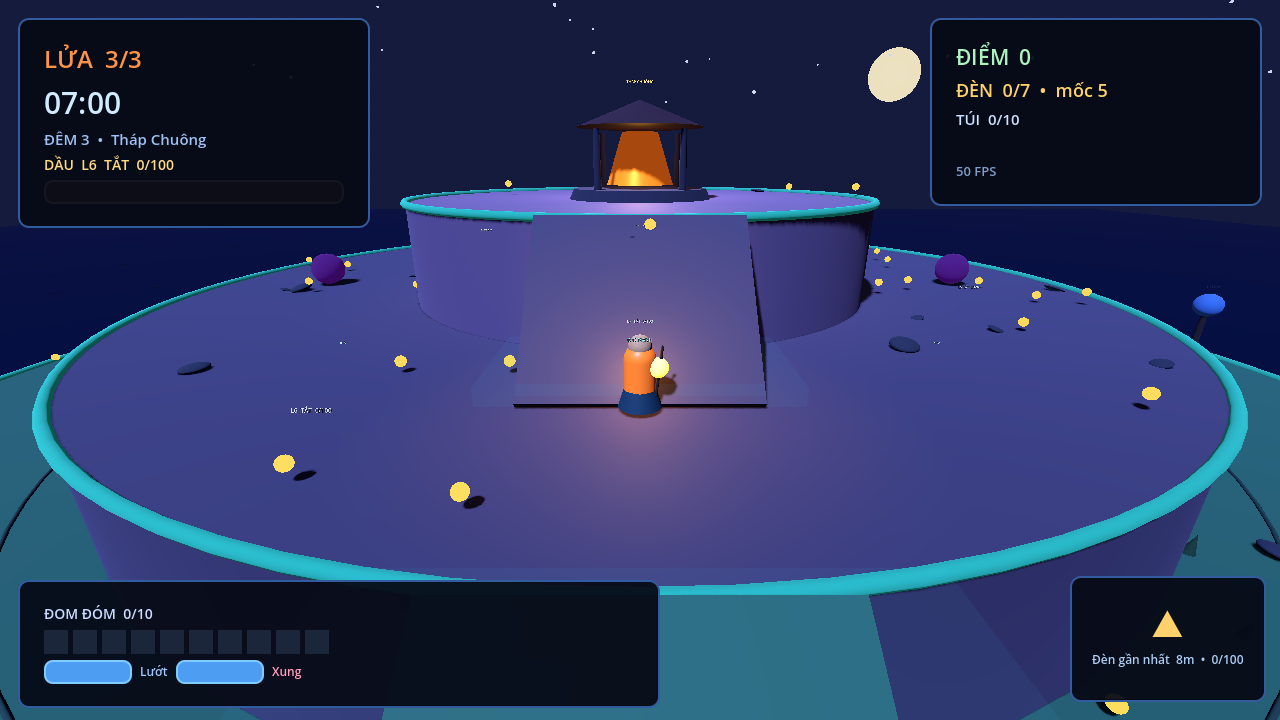
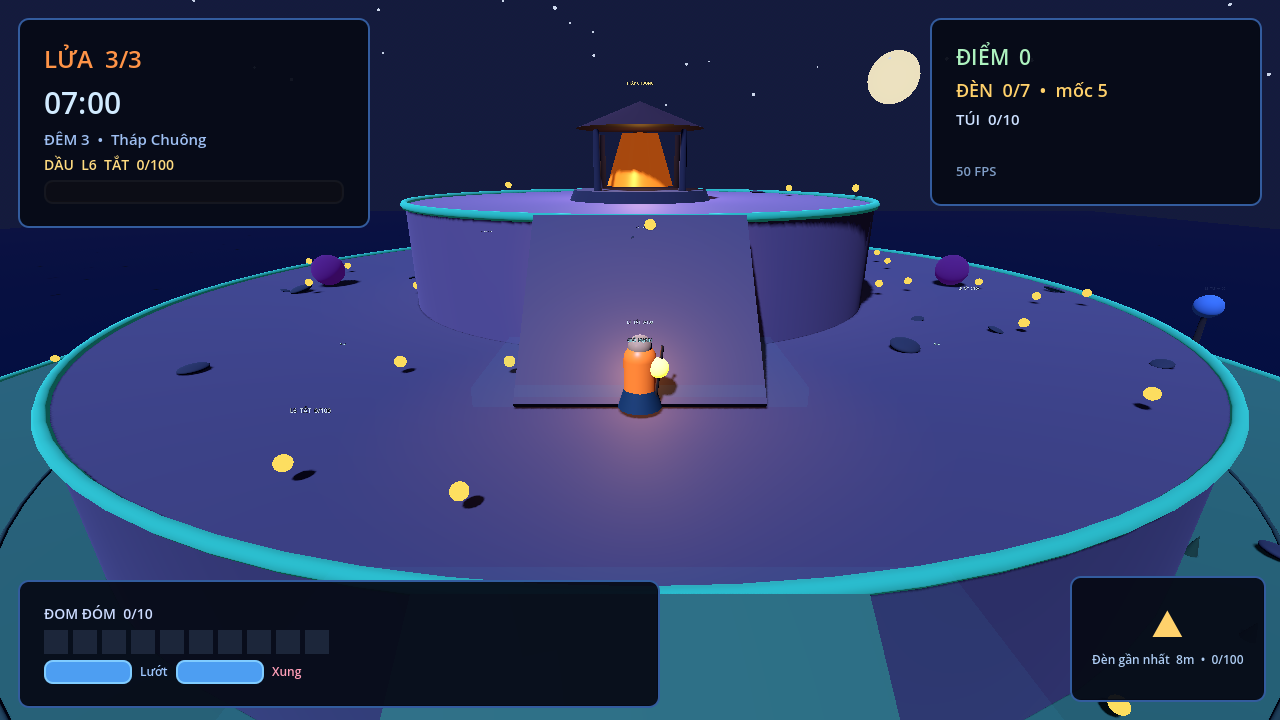
phase 3: balance player speed and shade chase after playtest

diff --git a/tools/verify_phase3.py b/tools/verify_phase3.py
@@ -114,7 +114,7 @@ def main():
 
         # Ambient drain is 1/s: a fuel-1 lantern goes out exactly on tick 60,
         # emitting lantern_out once and keeping ever_lit.
-        sc = empty() | {"player": {"pos": [10, 0, 0]}, "time_left_s": 300,
+        sc = empty() | {"player": {"pos": [30, 0, 0]}, "time_left_s": 300,
                         "lanterns": [{"id": "L1", "pos": [0, 0, 0], "lit": True, "fuel": 1}]}
         proc, rows = run(tmp, "deplete-ambient", 1, sc, None, 61)
         out = events(rows, "lantern_out")
@@ -126,7 +126,7 @@ def main():
 
         # A shade within 2 m adds 5/s, so ambient + shade (6/s) drains fuel 1
         # in 10 ticks. The shade is in the drain state and stops when out.
-        sc = empty() | {"player": {"pos": [10, 0, 0]}, "time_left_s": 300,
+        sc = empty() | {"player": {"pos": [30, 0, 0]}, "time_left_s": 300,
                         "lanterns": [{"id": "L1", "pos": [0, 0, 0], "lit": True, "fuel": 1}],
                         "shades": [{"id": "S1", "pos": [2, 0, 0]}]}
         proc, rows = run(tmp, "deplete-shade", 1, sc, None, 12)
@@ -138,13 +138,21 @@ def main():
 
         # Drain rate check: below the safe threshold a shade within 2 m adds
         # 5/s. 10 ticks of 6/s = 60 drain units, i.e. one fuel.
-        sc = empty() | {"player": {"pos": [10, 0, 0]}, "time_left_s": 300,
+        sc = empty() | {"player": {"pos": [30, 0, 0]}, "time_left_s": 300,
                         "lanterns": [{"id": "L1", "pos": [0, 0, 0], "lit": True, "fuel": 20}],
                         "shades": [{"id": "S1", "pos": [2, 0, 0]}]}
         proc, rows = run(tmp, "drain-rate", 1, sc, None, 10)
         assert proc.returncode == 0 and lantern(rows, 10, "L1")["fuel"] == 19
         assert snap(rows, 10)["shades"][0]["state"] == "drain"
         passed.append("shade drain removes one fuel per 10 ticks below fuel 30")
+
+        # The chase radius was raised to 10 m after playtest feedback, so a
+        # shade 8 m from the player should already be chasing.
+        sc = empty() | {"player": {"pos": [8, 0, 0]}, "time_left_s": 300,
+                        "shades": [{"id": "S1", "pos": [0, 0, 0]}]}
+        proc, rows = run(tmp, "chase-radius", 1, sc, None, 1)
+        assert proc.returncode == 0 and snap(rows, 1)["shades"][0]["state"] == "chase"
+        passed.append("shade chases the player from 10 m")
 
         # Relighting an ever-lit lantern costs 5 motes, sets fuel 100, counts
         # relit_count, increments successful_lights and grants 50 points.
@@ -242,7 +250,7 @@ def main():
         assert proc3.returncode == 2 and "error:" in proc3.stderr
         passed.append("colorblind mode is persisted/echoed and validated")
 
-        sc = empty() | {"player": {"pos": [10, 0, 0]}, "time_left_s": 300,
+        sc = empty() | {"player": {"pos": [30, 0, 0]}, "time_left_s": 300,
                         "lanterns": [{"id": "L1", "lit": True}, {"id": "L2", "lit": True, "fuel": 50}],
                         "shades": [{"id": "S1", "pos": [2, 0, 0]}]}
         a_proc, _ = run(tmp, "det-a", 1, sc, None, 120, seed=909, snapshot_every=10)

diff --git a/game.py b/game.py
@@ -13,12 +13,12 @@ from pathlib import Path
 HZ = 60
 ROOT = Path(__file__).resolve().parent
 T = {
-    "player_speed": 5.0, "carry_capacity": 10,
+    "player_speed": 6.5, "carry_capacity": 10,
     "capacity_per_light": 2, "capacity_max": 20,
     "new_light_cost": 10, "relight_cost": 5,
     "lantern_fuel_max": 100, "refuel_fuel_per_mote": 10,
     "ambient_drain_per_s": 1, "shade_drain_per_s": 5,
-    "shade_drain_radius_m": 2.0, "shade_chase_radius_m": 6.0,
+    "shade_drain_radius_m": 2.0, "shade_chase_radius_m": 10.0,
     "safe_fuel_threshold": 30,
     "dawn_lantern_ratio": 0.6,
     "fuel_push_radius_m": 7.0, "fuel_push_m": 2.0,

diff --git a/tools/capture_phase3_evidence.py b/tools/capture_phase3_evidence.py
@@ -69,7 +69,7 @@ def main():
                                "lanterns": [{"id": "L1", "pos": [0, 0, 0], "lit": True, "fuel": 1}],
                                "shades": []},
                       None, 61),
-        "drain": (empty | {"player": {"pos": [10, 0, 0]}, "time_left_s": 300,
+        "drain": (empty | {"player": {"pos": [30, 0, 0]}, "time_left_s": 300,
                            "lanterns": [{"id": "L1", "pos": [0, 0, 0], "lit": True, "fuel": 20}],
                            "shades": [{"id": "S1", "pos": [2, 0, 0]}]},
                   None, 30),

diff --git a/docs/notes/phase-3-assumptions.md b/docs/notes/phase-3-assumptions.md
@@ -31,7 +31,7 @@ Giữ các giá trị Phase 1/2 trừ các mục dưới đây:
 | `ambient_drain_per_s` | 1 | Hao dầu nền mỗi giây |
 | `shade_drain_per_s` | 5 | Hao thêm mỗi shade trong bán kính |
 | `shade_drain_radius_m` | 2.0 | Bán kính shade drain |
-| `shade_chase_radius_m` | 6.0 | Bán kính chase |
+| `shade_chase_radius_m` | 10.0 | Bán kính chase sau cân bằng playtest |
 | `safe_fuel_threshold` | 30 | Dưới ngưỡng này mất vùng an toàn |
 | `dawn_lantern_ratio` | 0.6 | Tỷ lệ đèn sáng cần để thắng |
 | `fuel_push_radius_m` | 7.0 | Bán kính đẩy shade khi nạp vượt ngưỡng |
@@ -120,3 +120,10 @@ Các giá trị `per_relight`, `per_flame_left`, `dawn_bonus`, `fuel_push_radius
   gây stun.
 - Capacity tăng cho cả thắp mới và thắp lại.
 - `deposited` tiếp tục là alias của `fuel`.
+
+## 11. Cân bằng sau playtest
+
+- `player_speed` tăng `5.0` → `6.5` m/s để người chơi kịp tới đèn trước khi dầu cạn.
+- `shade_chase_radius_m` tăng `6.0` → `10.0` m để shade phản ứng sớm hơn thay vì chỉ đuổi
+  khi người chơi áp sát; shade vẫn ưu tiên `wander` trong vùng an toàn.
+- Giữ nguyên drain `1/s` + `5/s` và ngưỡng an toàn `30` để không phá các test Phase 3.

diff --git a/docs/notes/phase-3-adr.md b/docs/notes/phase-3-adr.md
@@ -54,7 +54,7 @@ Hao dầu:
 - Vùng an toàn: đèn sáng có `fuel >= 30` tạo bán kính an toàn `3 m`. Đúng `30`
   vẫn an toàn; `< 30` mất vùng an toàn.
 - Vùng an toàn (đèn sáng `fuel >= 30`) luôn đẩy shade sang `wander`; nếu không trong vùng an
-  toàn: người chơi trong `<= 6 m` → `chase`; nếu không, trong `<= 2 m` của
+  toàn: người chơi trong `<= 10 m` → `chase`; nếu không, trong `<= 2 m` của
   đèn sáng → `drain`; nếu không → `wander`.
 - `wander`: đi tới đèn sáng có `fuel` thấp nhất; hòa chọn đèn gần Bóng Mực hơn;
   hòa nữa chọn `id` nhỏ hơn. Không còn đèn sáng thì đứng yên.
@@ -116,3 +116,10 @@ Hao dầu:
   mâu thuẫn. Bỏ khỏi điều kiện thắng, giữ địa hình.
 - **Dùng số thực cho fuel:** dễ trôi giữa các lần chạy. Chọn tích lũy nguyên
   1/60.
+
+## 4. Cân bằng sau playtest
+
+- Người chơi báo tốc độ di chuyển hơi thấp và shade chỉ đuổi khi áp sát.
+- Tăng `player_speed` từ `5.0` lên `6.5` m/s.
+- Tăng `shade_chase_radius_m` từ `6.0` lên `10.0` m để shade phản ứng sớm hơn.
+- Giữ nguyên drain, ngưỡng an toàn và scoring để không phá các test Phase 3.

diff --git a/docs/proof/phase-3/README.md b/docs/proof/phase-3/README.md
@@ -18,8 +18,8 @@ python game.py
 - `verify-phase1.log`: 11/11 Phase 1 checks pass on contract v1.2.
 - `verify-phase2.log`: 17 Phase 2 checks pass, including the dawn threshold and 21,600
   Night 3 ticks (well under 1 s).
-- `verify-phase3.log`: 22 Phase 3 checks pass, including refuel, depletion, drain, relight,
-  capacity, pushback, dawn win/loss, scoring, color mode and determinism.
+- `verify-phase3.log`: 23 Phase 3 checks pass, including refuel, depletion, drain, relight,
+  capacity, pushback, chase radius, dawn win/loss, scoring, color mode and determinism.
 - `drain-determinism-1.jsonl` and `drain-determinism-2.jsonl`: identical SHA-256.
 - `build-web.log`: Godot Web export succeeds (`index.html`, `index.js`, `index.pck`,
   `index.wasm`).
@@ -28,6 +28,7 @@ python game.py
   the Phase 3 HUD.
 - Scenario runs: `refuel`, `depletion`, `drain`, `relight`, `pushback`, `dawn-threshold`,
   `colorblind`; each has its scenario JSON, JSONL output and log.
+- Balance after playtest: `player_speed=6.5` and `shade_chase_radius_m=10.0`.
 
 ## Environment
 

diff --git a/docs/notes/phase-3-test-changes.md b/docs/notes/phase-3-test-changes.md
@@ -23,7 +23,7 @@ Các test Phase 1/2 bị sửa vì hành vi v1.2 thay đổi có chủ đích. K
 
 ## Phase 3 (`tools/verify_phase3.py`)
 
-22 kiểm tra mới:
+23 kiểm tra mới:
 
 1. Contract v1.2 và `ui` đồng bộ với `godot/shared/`.
 2. Snapshot có đầy đủ trường fuel/capacity/dawn/color mode.
@@ -47,6 +47,7 @@ Các test Phase 1/2 bị sửa vì hành vi v1.2 thay đổi có chủ đích. K
 20. Determinism với cùng seed/scenario.
 21. Hiệu năng 21.600 tick trong ngân sách thời gian.
 22. `godot/shared` đồng bộ với contract và map.
+23. Shade chase người chơi từ khoảng cách 10 m.
 
 ## Ghi chú
 

diff --git a/docs/notes/phase-3-spec.md b/docs/notes/phase-3-spec.md
@@ -52,7 +52,7 @@ giá trị không được checklist quy định được ghi thành giả đị
 ### AC-3.4 AI shade và vùng an toàn
 
 - Shade có state `stunned`, `chase`, `drain`, `wander`.
-- Ưu tiên chase khi người chơi trong `shade_chase_radius_m` (6 m); nếu không, drain khi
+- Ưu tiên chase khi người chơi trong `shade_chase_radius_m` (10 m); nếu không, drain khi
   trong `shade_drain_radius_m` (2 m) của đèn sáng; nếu không, wander tới đèn sáng yếu nhất
   theo quy tắc gần nhất.
 - Vùng an toàn quanh đèn chỉ tồn tại khi `fuel >= safe_fuel_threshold` (30). Đúng 30 vẫn

diff --git a/CHANGELOG.md b/CHANGELOG.md
@@ -24,3 +24,8 @@
 - Luật thắng bình minh, thua `not_enough_lanterns`, ưu tiên `no_flames`.
 - Setting `color_mode` (`default|colorblind`) và HUD thanh dầu/capacity/cảnh báo.
 - Test Phase 3 và bằng chứng `docs/proof/phase-3/`.
+
+### Balance sau playtest
+
+- `player_speed` tăng `5.0` → `6.5` m/s.
+- `shade_chase_radius_m` tăng `6.0` → `10.0` m.
